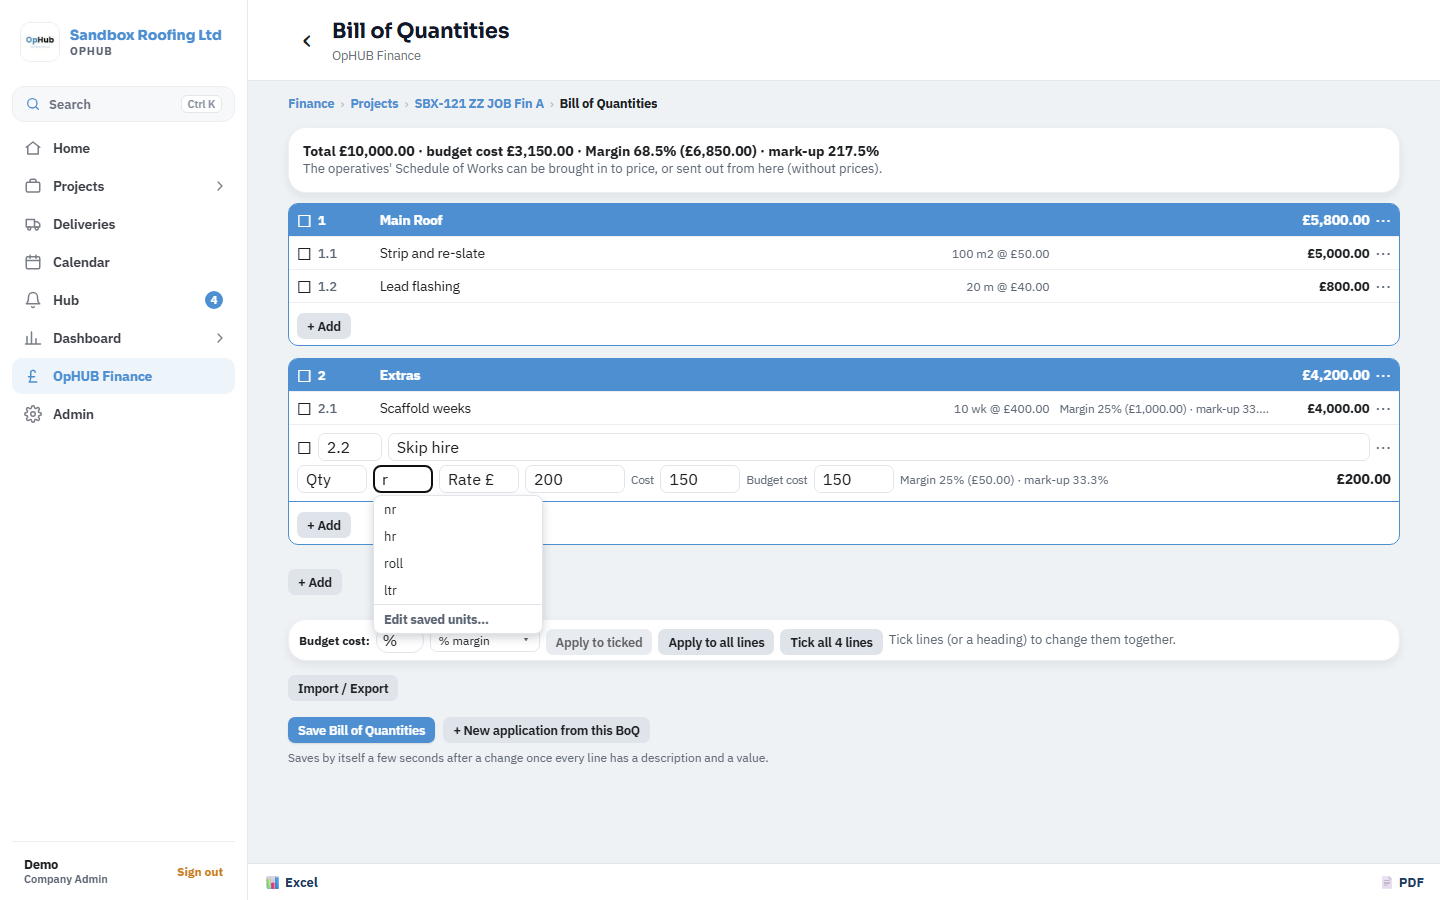
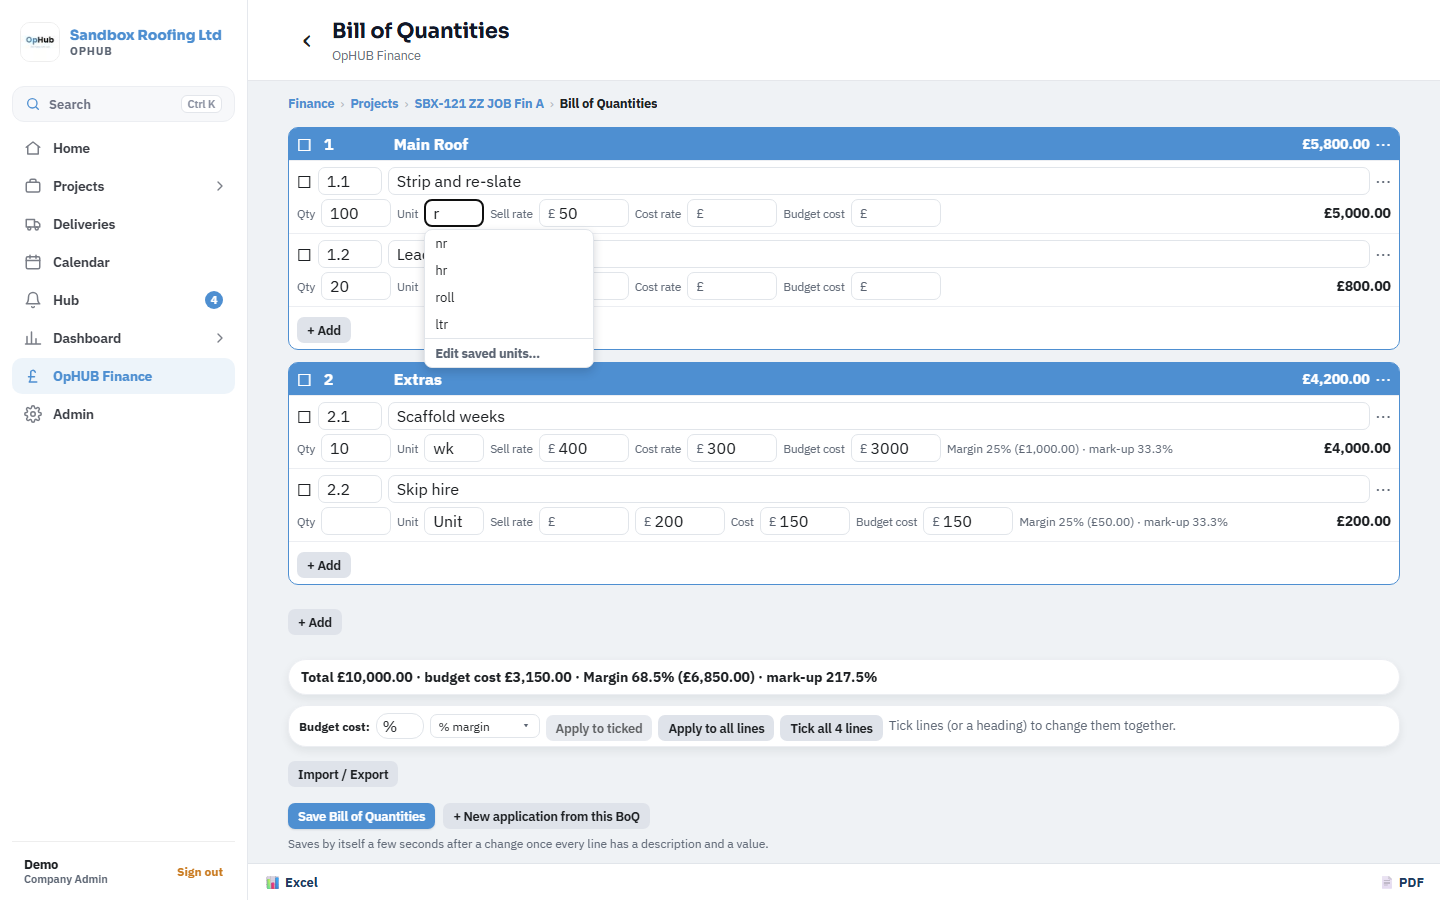
Bill of Quantities: lines never collapse, every box labelled with a £ on money, summary moved to the bottom.
Claude-Session: https://claude.ai/code/session_012KhfNvBEbifMJmPdX7yZfp

diff --git a/app-native/src/app/(app)/fin/job/[id]/boq.tsx b/app-native/src/app/(app)/fin/job/[id]/boq.tsx
@@ -13,11 +13,11 @@ import * as DocumentPicker from 'expo-document-picker';
 import { router, Stack, useLocalSearchParams } from 'expo-router';
 import { DEFAULT_UNITS, UnitField } from '@/components/UnitField';
 import { autoRefs } from '@/lib/rules/boqRefs';
-import { Fragment, useEffect, useRef, useState } from 'react';
+import { Fragment, useEffect, useRef, useState, type ReactNode } from 'react';
 
 import { viewDoc } from '@/components/DocViewer';
 import { openDocLink } from '@/data/hs';
-import { Platform, Pressable, ScrollView, Text, TextInput, View } from 'react-native';
+import { Pressable, ScrollView, Text, TextInput, View } from 'react-native';
 
 import { ThinExportBar } from '@/components/FinFilterBar';
 import { FinRow } from '@/components/FinNav';
@@ -41,6 +41,11 @@ import { base, page, radius, space, useTheme } from '@/theme/theme';
 
 type Row = Record<string, any>;
 const slim = { height: 28, paddingVertical: 2, paddingHorizontal: 8, fontSize: 13, borderRadius: 7 };
+const lab = { fontSize: 11.5, color: base.slate };
+const Pound = ({ width, children }: { width: number; children: ReactNode }) => (
+  <View style={{ flexDirection: 'row', alignItems: 'center', width, height: 28, paddingHorizontal: 8, borderWidth: 1, borderColor: base.line, borderRadius: 7, backgroundColor: base.card, gap: 3 }}><Text style={{ fontSize: 13, color: base.slate }}>£</Text>{children}</View>
+);
+const inPound = { flex: 1, minWidth: 0, fontSize: 13, color: base.ink, padding: 0, outlineStyle: 'none' as 'solid' };
 const box = { borderWidth: 1, borderColor: base.line, borderRadius: radius.input, padding: 7, color: base.ink, backgroundColor: base.card };
 
 export default function FinBoq() {
@@ -54,23 +59,10 @@ export default function FinBoq() {
 function Editor({ id, initial, me }: { id: string; initial: Row[]; me: Profile }) {
   const { org } = useAuth();
   const t = useTheme();
-  // One line open at a time (Andy, 1 Nov 2026): click to open, tab out or click away to close.
+  // Every line stays open (Andy, 1 Nov 2026). This is only the new line that takes the cursor.
   const [openK, setOpenK] = useState<string | null>(null);
-  const closing = useRef<ReturnType<typeof setTimeout> | null>(null);
   const [descH, setDescH] = useState<Record<string, number>>({});
-  const clickedInside = useRef(false);
   const qtyBox = useRef<Record<string, { focus: () => void } | null>>({});
-  useEffect(() => {
-    if (Platform.OS !== 'web' || !openK) return;
-    const down = (e: MouseEvent) => {
-      const inside = !!document.getElementById('boq-open-line')?.contains(e.target as Node);
-      clickedInside.current = inside;
-      if (!inside) setOpenK(null);
-    };
-    const key = () => { clickedInside.current = false; };
-    document.addEventListener('mousedown', down); document.addEventListener('keydown', key);
-    return () => { document.removeEventListener('mousedown', down); document.removeEventListener('keydown', key); };
-  }, [openK]);
   const qcUnits = useQueryClient();
   const { data: finSt } = useFinSettings(me.org_id);
   const savedUnits = (finSt as { unit_presets?: string[] | null } | undefined)?.unit_presets;
@@ -257,8 +249,6 @@ function Editor({ id, initial, me }: { id: string; initial: Row[]; me: Profile }
     <View style={{ flex: 1 }}>
     <ScrollView style={{ flex: 1 }} contentContainerStyle={page(1100)} keyboardShouldPersistTaps="handled">
       <Stack.Screen options={{ title: 'Bill of Quantities' }} />
-      <Card><Text style={{ fontWeight: '800', color: base.ink }}>Total {money(total)}{costTotal ? ` · budget cost ${money(costTotal)} · ${marginText(total, costTotal) || `margin ${money(total - costTotal)}`}` : ''}</Text><Muted>The operatives&apos; Schedule of Works can be brought in to price, or sent out from here (without prices).{autoNote ? ` · ${autoNote}` : ''}</Muted>
-      </Card>
       {imp && <ImportPreview imp={imp} setImp={setImp} onUse={async (lines) => {
         if (rows.some((x) => String(x.description || '').trim()) && !(await confirmAsk('Replace the lines here with the imported breakdown?', 'Replace'))) return;
         setRows(boqRows(lines).map((r) => ({ ...r, _k: key(), sub: '' }))); setImp(null);
@@ -266,15 +256,13 @@ function Editor({ id, initial, me }: { id: string; initial: Row[]; me: Profile }
 
       {/* Each section sits in its own border (Andy, 1 Nov 2026); lines before any section don't. */}
       {rows.reduce<number[][]>((gs, r, i) => { if (r.kind === 'section' || !gs.length) gs.push([i]); else gs[gs.length - 1].push(i); return gs; }, []).map((g) => (
-      <View key={rows[g[0]]._k} style={rows[g[0]].kind === 'section' ? { borderWidth: 1.5, borderColor: t.brand1, borderRadius: 10, backgroundColor: base.card, marginBottom: 12, zIndex: g.some((j) => rows[j]._k === openK) ? 40 : 0 } : undefined}>
+      <View key={rows[g[0]]._k} style={rows[g[0]].kind === 'section' ? { borderWidth: 1.5, borderColor: t.brand1, borderRadius: 10, backgroundColor: base.card, marginBottom: 12, zIndex: rows.length - g[0] } : undefined}>
       {g.map((i) => {
         const r = rows[i];
         const head = r.kind === 'section' || r.kind === 'subsection';
         const grp = head ? groupRange(rows, i) : [];
         const on = head ? grp.length > 0 && grp.every((j) => rows[j]._sel) : !!r._sel;
         // Headings are one aligned line in a deeper colour: a section in the company colour, a sub-section in grey (Andy, 1 Nov 2026).
-        const isOpen = openK === r._k;
-        const leave = { onFocus: () => { if (closing.current) clearTimeout(closing.current); }, onBlur: () => { closing.current = setTimeout(() => { if (!clickedInside.current) setOpenK((k) => (k === r._k ? null : k)); }, 150); } } as { onFocus: () => void; onBlur: () => void };
         const sec = r.kind === 'section', ink = sec ? t.brand1Text : base.ink;
         const headBox = { flex: 0, height: 28, paddingVertical: 0, paddingHorizontal: 6, borderWidth: 0, backgroundColor: 'transparent', color: ink, fontWeight: '800' as const };
         // The Add button sits at the end of each section or sub-section: an item, or a sub-section (only ever inside a section).
@@ -288,40 +276,32 @@ function Editor({ id, initial, me }: { id: string; initial: Row[]; me: Profile }
         };
         return (
           <Fragment key={r._k}>
-          <View nativeID={isOpen ? 'boq-open-line' : undefined} style={{ borderWidth: 1, borderColor: sec ? t.brand1 : r.kind === 'subsection' ? '#DFE3EA' : isOpen ? t.brand1 : base.cardLine, borderRadius: 8, paddingVertical: !head && isOpen ? 8 : 2, paddingHorizontal: 8, marginBottom: 6, backgroundColor: sec ? t.brand1 : r.kind === 'subsection' ? '#DFE3EA' : base.card, marginLeft: r.kind === 'subsection' ? 10 : 0, ...(rows[g[0]].kind === 'section' ? { marginBottom: 0, marginLeft: 0, borderRadius: 0, borderWidth: 0, borderBottomWidth: 1, borderBottomColor: isOpen ? t.brand1 : base.cardLine, ...(sec ? { borderTopLeftRadius: 8, borderTopRightRadius: 8 } : null) } : null), zIndex: isOpen ? 40 : 0 }}>
+          <View style={{ borderWidth: 1, borderColor: sec ? t.brand1 : r.kind === 'subsection' ? '#DFE3EA' : base.cardLine, borderRadius: 8, paddingVertical: head ? 2 : 6, paddingHorizontal: 8, marginBottom: 6, backgroundColor: sec ? t.brand1 : r.kind === 'subsection' ? '#DFE3EA' : base.card, marginLeft: r.kind === 'subsection' ? 10 : 0, ...(rows[g[0]].kind === 'section' ? { marginBottom: 0, marginLeft: 0, borderRadius: 0, borderWidth: 0, borderBottomWidth: 1, borderBottomColor: base.cardLine, ...(sec ? { borderTopLeftRadius: 8, borderTopRightRadius: 8 } : null) } : null), zIndex: rows.length - i }}>
             <View style={{ flexDirection: 'row', gap: 6, alignItems: 'center' }}>
-              <Pressable hitSlop={6} focusable={!isOpen} accessibilityLabel="Tick" onPress={() => (head ? tick(grp, !on) : set(i, '_sel', !on))}><Text style={{ fontSize: 17, color: head ? ink : base.ink }}>{on ? '☑' : '☐'}</Text></Pressable>
-              {isOpen ? <>
-              <TextInput {...leave} value={refs[i]} onChangeText={(v) => set(i, 'ref', v)} placeholder="Ref" placeholderTextColor={head ? ink : undefined} style={[box, slim, { width: 64 }, head && headBox]} />
-              <TextInput {...leave} value={r.description || ''} onChangeText={(v) => set(i, 'description', v)} placeholder={head ? (r.kind === 'section' ? 'Section heading' : 'Sub-section heading') : 'Description'} placeholderTextColor={head ? ink : undefined} autoFocus multiline={!head} onContentSizeChange={head ? undefined : (e) => { const h = Math.ceil(e.nativeEvent.contentSize.height); setDescH((o) => (o[r._k] === h ? o : { ...o, [r._k]: h })); }} onKeyPress={head ? undefined : (e) => { const n = e.nativeEvent as unknown as { key: string; shiftKey?: boolean }; if (n.key === 'Tab' && !n.shiftKey) { (e as unknown as { preventDefault: () => void }).preventDefault(); qtyBox.current[r._k]?.focus(); } }} style={[box, slim, { flex: 1, height: Math.max(28, descH[r._k] || 0), paddingVertical: 4, lineHeight: 18 }, head && { ...headBox, flex: 1 }]} />
-              </> : (
-                <Pressable accessibilityRole="button" accessibilityLabel={`Open ${r.description || 'line'}`} onPress={() => setOpenK(r._k)} style={{ flex: 1, flexDirection: 'row', alignItems: 'center', gap: 10, minHeight: 28 }}>
-                  <Text numberOfLines={1} style={{ width: 52, fontSize: 13, fontWeight: head ? '800' : '500', color: head ? ink : base.slate }}>{refs[i]}</Text>
-                  <Text style={{ flex: 1, fontSize: 13.5, fontWeight: head ? '800' : '400', color: head ? ink : r.description ? base.ink : base.slateLight }}>{r.description || (head ? 'Heading' : 'Description')}</Text>
-                  {!head && <Text numberOfLines={1} style={{ width: 150, fontSize: 12, color: base.slate, textAlign: 'right' }}>{num(r.qty) !== null ? `${r.qty} ${r.unit || ''} @ ${money(Number(num(r.rate)) || 0)}` : ''}</Text>}
-                  {!head && <Text numberOfLines={1} style={{ width: 210, fontSize: 11.5, color: num(r.cost) !== null && vals[i] && (num(r.cost) as number) > vals[i] ? base.red : base.slate, textAlign: 'right' }}>{num(r.cost) !== null ? marginText(vals[i], num(r.cost)) : ''}</Text>}
-                  {!head && <Text style={{ width: 90, fontWeight: '800', fontSize: 13, color: base.ink, textAlign: 'right' }}>{money(vals[i])}</Text>}
-                </Pressable>
-              )}
+              <Pressable hitSlop={6} focusable={false} accessibilityLabel="Tick" onPress={() => (head ? tick(grp, !on) : set(i, '_sel', !on))}><Text style={{ fontSize: 17, color: head ? ink : base.ink }}>{on ? '☑' : '☐'}</Text></Pressable>
+              <TextInput value={refs[i]} onChangeText={(v) => set(i, 'ref', v)} placeholder="Ref" placeholderTextColor={head ? ink : undefined} style={[box, slim, { width: 64 }, head && headBox]} />
+              <TextInput value={r.description || ''} onChangeText={(v) => set(i, 'description', v)} placeholder={head ? (r.kind === 'section' ? 'Section heading' : 'Sub-section heading') : 'Description'} placeholderTextColor={head ? ink : undefined} autoFocus={openK === r._k} multiline={!head} onContentSizeChange={head ? undefined : (e) => { const h = Math.ceil(e.nativeEvent.contentSize.height); setDescH((o) => (o[r._k] === h ? o : { ...o, [r._k]: h })); }} onKeyPress={head ? undefined : (e) => { const n = e.nativeEvent as unknown as { key: string; shiftKey?: boolean }; if (n.key === 'Tab' && !n.shiftKey) { (e as unknown as { preventDefault: () => void }).preventDefault(); qtyBox.current[r._k]?.focus(); } }} style={[box, slim, { flex: 1, height: Math.max(28, descH[r._k] || 0), paddingVertical: 4, lineHeight: 18 }, head && { ...headBox, flex: 1 }]} />
               {head && <Text style={{ fontWeight: '800', color: ink, minWidth: 90, textAlign: 'right' }}>{money(tots[i]?.value || 0)}</Text>}
-              <Pressable hitSlop={6} focusable={!isOpen} onPress={async () => {
+              <Pressable hitSlop={6} focusable={false} onPress={async () => {
                 const k = await chooseAction('Line', [{ key: 'ai', label: head ? '+ Item under this heading' : '+ Item below' }, ...(r.kind === 'section' ? [{ key: 'as', label: '+ Sub-section in this section' }] : []), { key: 'asec', label: '+ Section after this' }, { key: 'up', label: '↑ Move up' }, { key: 'down', label: '↓ Move down' }, { key: 'kind', label: 'Change type' }, { key: 'del', label: '🗑 Remove', danger: true }]);
                 if (k === 'ai') addAt(i, 'item'); else if (k === 'as') addAt(i, 'subsection'); else if (k === 'asec') { const x = rows.slice(); let at = i + 1; while (at < x.length && x[at].kind !== 'section') at++; const n = blank('section'); x.splice(at, 0, n); setRows(x); setOpenK(n._k); }
                 else if (k === 'up') move(i, -1); else if (k === 'down') move(i, 1); else if (k === 'del') setRows(rows.filter((_, j) => j !== i));
                 else if (k === 'kind') { const t = await chooseAction('Type', [{ key: 'item', label: 'Item' }, { key: 'section', label: 'Section heading' }, { key: 'subsection', label: 'Sub-section heading' }]); if (t) set(i, 'kind', t); }
               }}><Text style={{ fontSize: 18, color: head ? ink : base.slate }}>⋯</Text></Pressable>
             </View>
-            {head || !isOpen ? null : (
+            {head ? null : (
               <>
                 <View style={{ flexDirection: 'row', gap: 6, marginTop: 4, flexWrap: 'wrap', alignItems: 'center' }}>
-                  <TextInput {...leave} ref={(el) => { qtyBox.current[r._k] = el as unknown as { focus: () => void } | null; }} value={String(r.qty ?? '')} onChangeText={(v) => set(i, 'qty', v)} placeholder="Qty" keyboardType="decimal-pad" style={[box, slim, { width: 70 }]} />
-                  <UnitField value={r.unit || ''} onChangeText={(v) => set(i, 'unit', v)} units={units} onEdit={() => void editUnits()} onFocus={leave.onFocus} onBlur={leave.onBlur} style={[box, slim, { width: 60 }]} />
-                  <TextInput {...leave} value={String(r.rate ?? '')} onChangeText={(v) => set(i, 'rate', v)} placeholder="Rate £" keyboardType="decimal-pad" style={[box, slim, { width: 80 }]} />
-                  {num(r.value) !== null && num(r.qty) === null && num(r.rate) === null && <TextInput {...leave} value={String(r.value ?? '')} onChangeText={(v) => set(i, 'value', v)} placeholder="Value £" keyboardType="decimal-pad" style={[box, slim, { width: 100 }]} />}
+                  <Text style={lab}>Qty</Text>
+                  <TextInput ref={(el) => { qtyBox.current[r._k] = el as unknown as { focus: () => void } | null; }} value={String(r.qty ?? '')} onChangeText={(v) => set(i, 'qty', v)} accessibilityLabel="Qty" keyboardType="decimal-pad" style={[box, slim, { width: 70 }]} />
+                  <Text style={lab}>Unit</Text>
+                  <UnitField value={r.unit || ''} onChangeText={(v) => set(i, 'unit', v)} units={units} onEdit={() => void editUnits()} style={[box, slim, { width: 60 }]} />
+                  <Text style={lab}>Sell rate</Text><Pound width={90}><TextInput accessibilityLabel="Rate £" value={String(r.rate ?? '')} onChangeText={(v) => set(i, 'rate', v)} keyboardType="decimal-pad" style={inPound} /></Pound>
+                  {num(r.value) !== null && num(r.qty) === null && num(r.rate) === null && <Pound width={90}><TextInput accessibilityLabel="Amount" value={String(r.value ?? '')} onChangeText={(v) => set(i, 'value', v)} keyboardType="decimal-pad" style={inPound} /></Pound>}
                   <Text style={{ fontSize: 11.5, color: base.slate }}>{num(r.qty) ? 'Cost rate' : 'Cost'}</Text>
-                  <TextInput {...leave} value={costRate(r)} onChangeText={(v) => { const n = num(v), q = num(r.qty); setRows((rs) => rs.map((x, j) => (j === i ? { ...x, cost: n === null || isNaN(n) ? '' : q ? round2(n * q) : n, cost_basis: null, cost_pct: null } : x))); }} placeholder="£" keyboardType="decimal-pad" style={[box, slim, { width: 80 }]} />
+                  <Pound width={90}><TextInput accessibilityLabel="Amount" value={costRate(r)} onChangeText={(v) => { const n = num(v), q = num(r.qty); setRows((rs) => rs.map((x, j) => (j === i ? { ...x, cost: n === null || isNaN(n) ? '' : q ? round2(n * q) : n, cost_basis: null, cost_pct: null } : x))); }} keyboardType="decimal-pad" style={inPound} /></Pound>
                   <Text style={{ fontSize: 11.5, color: base.slate }}>Budget cost</Text>
-                  <TextInput {...leave} value={String(r.cost ?? '')} onChangeText={(v) => setRows((rs) => rs.map((x, j) => (j === i ? { ...x, cost: v, cost_basis: null, cost_pct: null } : x)))} placeholder="£" keyboardType="decimal-pad" style={[box, slim, { width: 80 }]} />
+                  <Pound width={90}><TextInput accessibilityLabel="Amount" value={String(r.cost ?? '')} onChangeText={(v) => setRows((rs) => rs.map((x, j) => (j === i ? { ...x, cost: v, cost_basis: null, cost_pct: null } : x)))} keyboardType="decimal-pad" style={inPound} /></Pound>
                   {subs.length > 0 && <SelectBox value={r.sub || '-'} options={[['-', 'No plot'], ...subs.map((s) => [s.id, s.short] as [string, string])]} onChange={(k) => set(i, 'sub', k === '-' ? '' : k)} title="Plot" compact style={{ marginBottom: 0, width: 130 }} />}
                   <Text style={{ fontSize: 12, color: num(r.cost) !== null && vals[i] && (num(r.cost) as number) > vals[i] ? base.red : base.slate }}>{marginText(vals[i], num(r.cost))}{r.cost_basis && r.cost_pct != null ? ` (set at ${r.cost_pct}% ${r.cost_basis === 'markup' ? 'mark-up' : 'margin'})` : ''}</Text>
                   <Text style={{ marginLeft: 'auto', fontWeight: '800', color: base.ink }}>{money(vals[i])}</Text>
@@ -338,6 +318,8 @@ function Editor({ id, initial, me }: { id: string; initial: Row[]; me: Profile }
       <View style={{ flexDirection: 'row', gap: 6, flexWrap: 'wrap', marginTop: 8, marginBottom: 24 }}>
         <Button small kind="ghost" title="+ Add" onPress={async () => { const k = await chooseAction('Add', [{ key: 'section', label: 'Section' }, { key: 'item', label: 'Item' }]); if (k) add(k); }} />
       </View>
+      {/* The Bill's summary sits at the bottom; each section's total is on its heading (Andy, 1 Nov 2026). */}
+      <Card style={{ paddingVertical: 8, paddingHorizontal: 12, marginBottom: 10 }}><Text style={{ fontWeight: '800', color: base.ink }}>Total {money(total)}{costTotal ? ` · budget cost ${money(costTotal)} · ${marginText(total, costTotal) || `margin ${money(total - costTotal)}`}` : ''}</Text></Card>
       {/* Budget cost: margin / mark-up for all or the ticked lines, and changes to the ticked lines together (902). */}
       <Card style={{ paddingVertical: 5, paddingHorizontal: 10 }}>
         <View style={{ flexDirection: 'row', flexWrap: 'wrap', gap: 6, alignItems: 'center' }}>

diff --git a/tools/test-harness/jobtest-parts/bq4.js b/tools/test-harness/jobtest-parts/bq4.js
@@ -1,36 +1,27 @@
-// Bill of Quantities open line and Unit list, on Sandbox's ZZ job. Sets one test line's unit by keyboard.
+// Bill of Quantities: lines stay open, labels and £ signs, Tab order, Unit list. Sets one test line's unit by keyboard on Sandbox's ZZ job.
 module.exports = async ({as, step}) => {
   const a = await as('admin');
   const [J] = await a.get('sites?select=id&name=like.ZZ%20JOB%20Fin*&limit=1');
   await a.page.setViewportSize({width: 1440, height: 900});
-  await step('Open line is slim', async () => {
-    await a.go('/fin/job/' + J.id + '/boq', 7000); await a.page.getByText(/^not now$/i).first().click({timeout: 800}).catch(() => {}); await a.page.waitForTimeout(1500);
-    await a.page.getByText('Skip hire').first().click({timeout: 6000}); await a.page.waitForTimeout(600); await a.shot('open');
-    const h = await a.page.locator('[aria-label="Unit"]').first().evaluate((e) => { let n = e; for (let i = 0; i < 9 && n.parentElement; i++) { n = n.parentElement; if (n.getBoundingClientRect().height > 50) break; } return Math.round(n.getBoundingClientRect().height); });
-    return {ok: h <= 90, note: 'row height ' + h};
+  const active = () => a.page.evaluate(() => document.activeElement && document.activeElement.getAttribute('aria-label'));
+  await step('All lines open, with labels and £', async () => {
+    await a.go('/fin/job/' + J.id + '/boq', 7000); await a.page.getByText(/^not now$/i).first().click({timeout: 800}).catch(() => {}); await a.page.waitForTimeout(1500); await a.shot('page');
+    const q = await a.page.locator('[aria-label="Qty"]').count(), t = (await a.text()).replace(/\s+/g, ' ');
+    return {ok: q >= 4 && /Sell rate/.test(t) && /Cost rate/.test(t) && /Budget cost/.test(t) && /£/.test(t), note: q + ' lines open'};
   });
-  await step('Tab from the description goes to Qty', async () => {
-    await a.page.locator('[aria-label^="Open"]').first().isVisible().catch(() => {});
-    const d = a.page.locator('textarea').locator('visible=true').first(); await d.click(); await a.shot('centre'); await a.page.keyboard.press('Tab'); await a.page.waitForTimeout(250);
-    const ph = await a.page.evaluate(() => document.activeElement && document.activeElement.getAttribute('placeholder'));
-    return {ok: ph === 'Qty', note: 'landed on ' + ph};
+  await step('Tab goes description to Qty, and clicking about never closes', async () => {
+    await a.page.locator('textarea').locator('visible=true').first().click(); await a.page.keyboard.press('Tab'); await a.page.waitForTimeout(250);
+    const on = await active();
+    const before = await a.page.locator('[aria-label="Qty"]').count();
+    await a.page.mouse.click(1000, 880); await a.page.waitForTimeout(400); await a.page.keyboard.press('Tab'); await a.page.waitForTimeout(300);
+    return {ok: on === 'Qty' && await a.page.locator('[aria-label="Qty"]').count() === before, note: 'landed on ' + on};
   });
-  await step('Clicking inside the line keeps it open; no Lump sum box', async () => {
-    const q = a.page.locator('input[placeholder="Qty"]').first(); await q.click(); await a.page.waitForTimeout(200);
-    const b = await a.page.locator('#boq-open-line').boundingBox(); await a.page.mouse.click(b.x + b.width - 200, b.y + b.height - 8); await a.page.waitForTimeout(500);
-    return {ok: await a.page.locator('#boq-open-line').count() === 1 && await a.page.locator('input[placeholder^="Lump sum"]').count() === 0, note: 'still open'};
-  });
-  await step('Unit: type filters, down arrow and Tab takes it, list has Edit at the bottom', async () => {
+  await step('Unit: type filters, down arrow and Tab takes it, Edit at the bottom', async () => {
     const u = a.page.locator('[aria-label="Unit"]').first();
     await u.click(); await a.page.waitForTimeout(300); await u.fill('r'); await a.page.waitForTimeout(400); await a.shot('list');
-    const edit = await a.page.getByText(/^Edit saved units/).locator('visible=true').count(), roll = await a.page.getByText(/^roll$/).locator('visible=true').count();
+    const edit = await a.page.getByText(/^Edit saved units/).locator('visible=true').count();
     await a.page.keyboard.press('ArrowDown'); await a.page.waitForTimeout(150); await a.page.keyboard.press('Tab'); await a.page.waitForTimeout(400);
-    const v = await u.inputValue().catch(() => 'closed');
-    await a.shot('taken');
-    return {ok: edit === 1 && roll === 1 && v !== 'r' && v !== '', note: 'edit ' + edit + ', roll ' + roll + ', value ' + v};
-  });
-  await step('Clicking outside closes it', async () => {
-    await a.page.mouse.click(1000, 860); await a.page.waitForTimeout(500);
-    return {ok: await a.page.locator('#boq-open-line').count() === 0, note: 'closed'};
+    const v = await u.inputValue();
+    return {ok: edit === 1 && v !== 'r' && v !== '', note: 'value ' + v};
   });
 };
